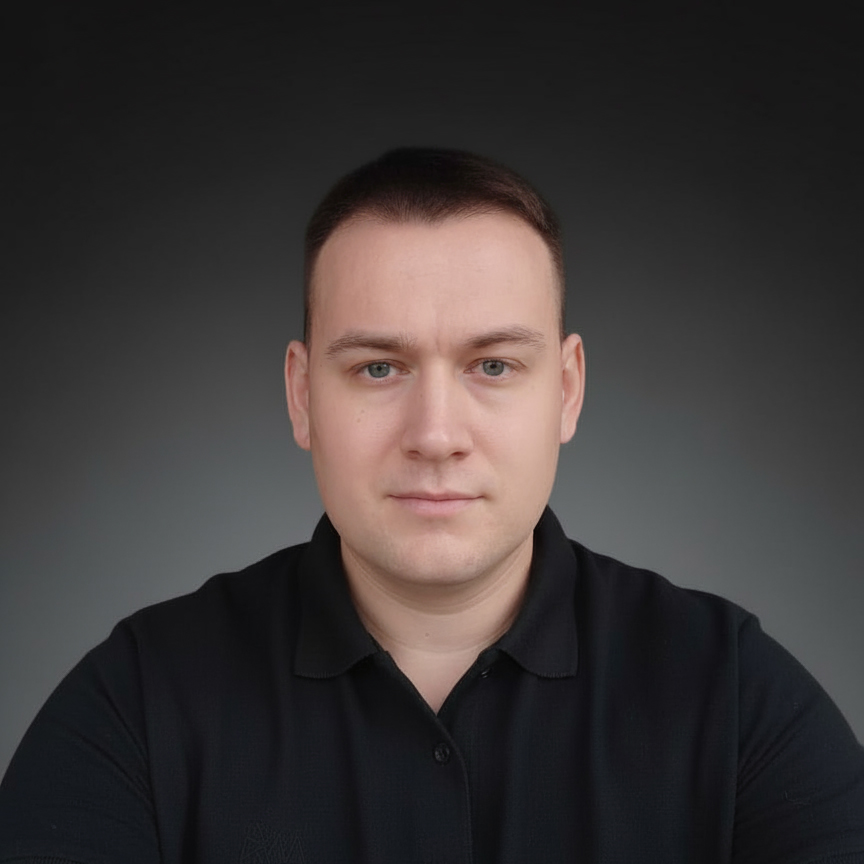
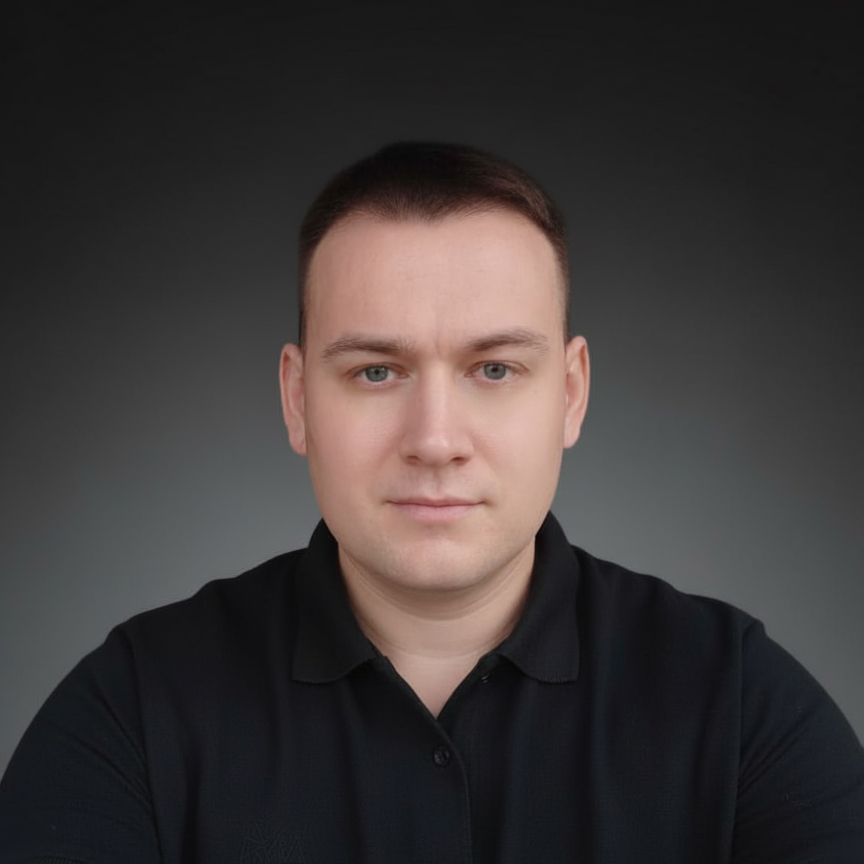
first commit

diff --git a/src/pages/landing/Landing.tsx b/src/pages/landing/Landing.tsx
@@ -62,7 +62,7 @@ export const Landing = () => {
               className={Styles.ava}
             />
           </Tilt> */}
-          <img src='images/me/me_current.png' alt="я" className={Styles.ava} />
+          <img src='images/me/me_current.jpg' alt="я" className={Styles.ava} />
         </div>
       </Section>
 
